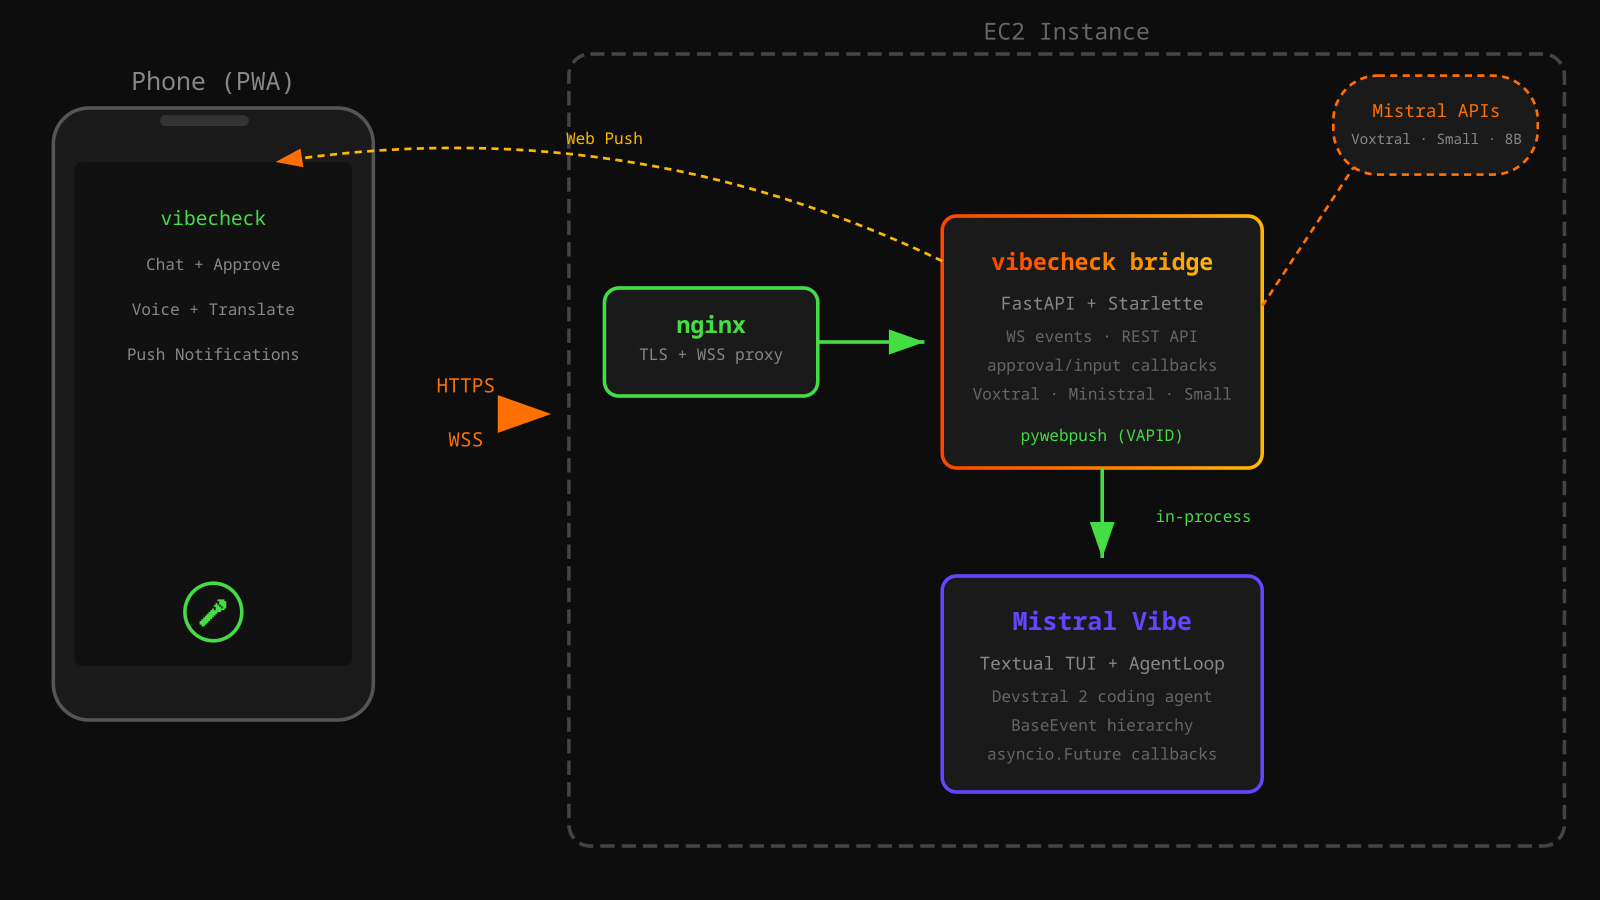
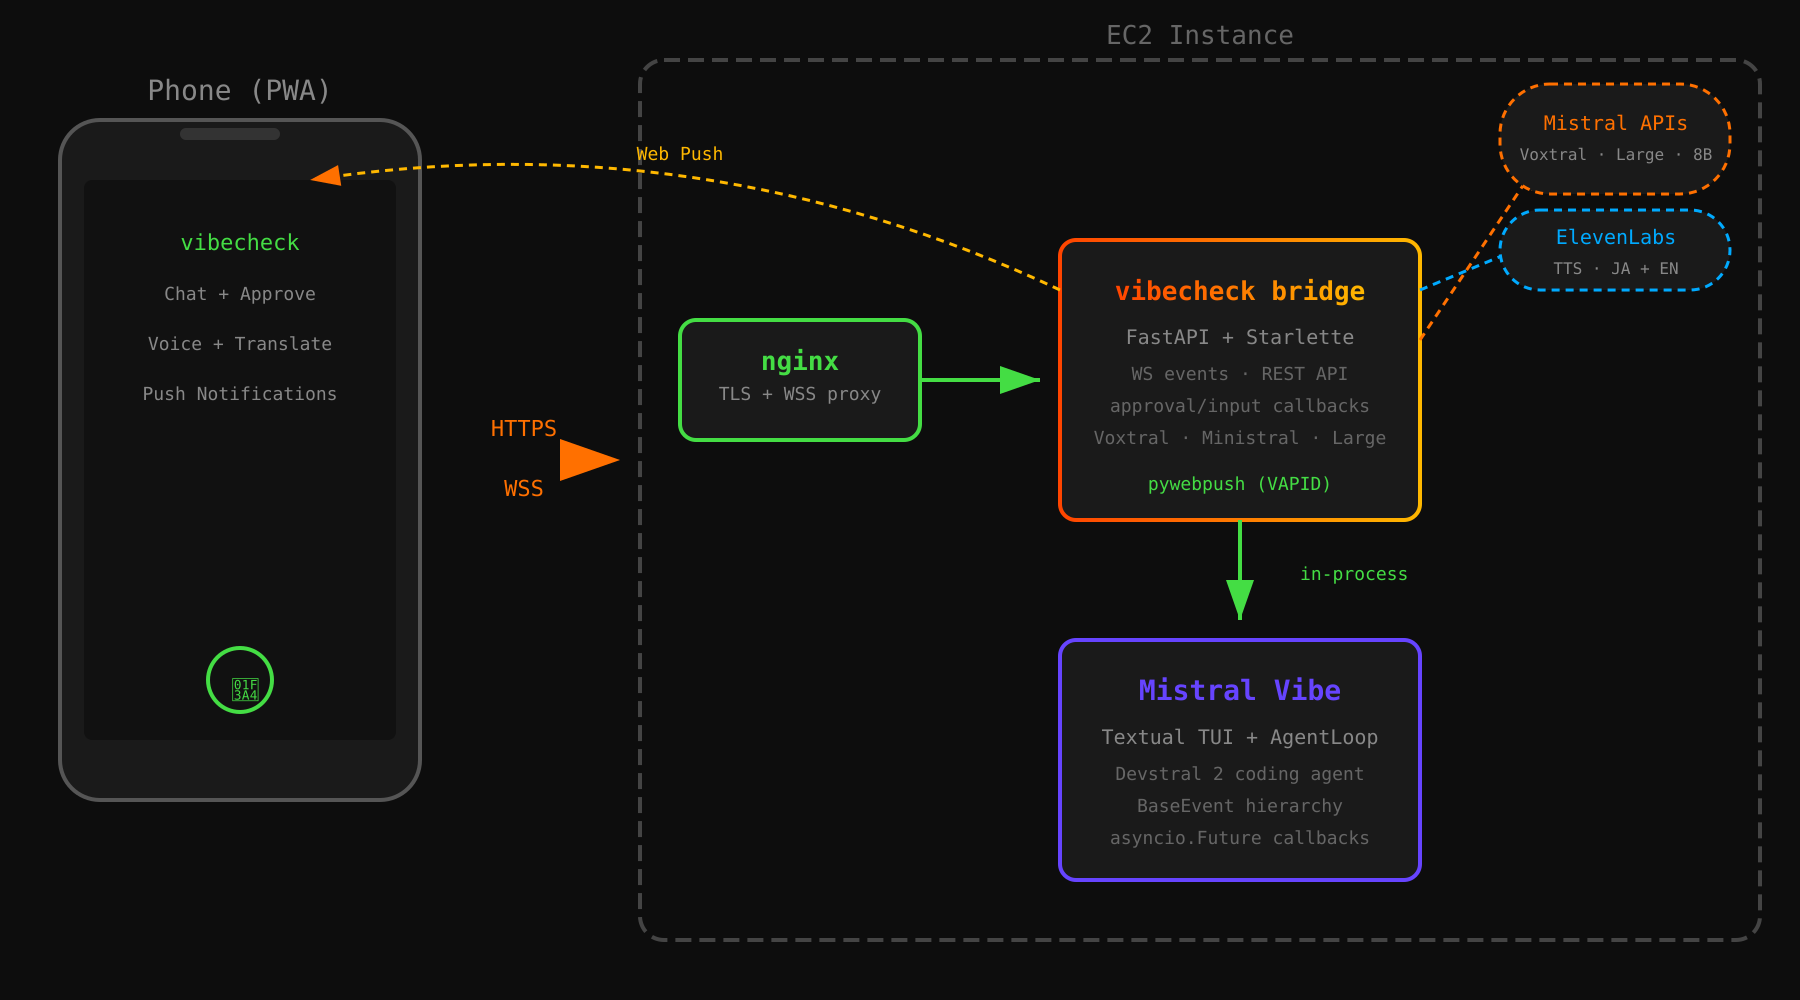
docs: add ElevenLabs TTS to model lineup across all demo materials
- Models: Devstral 2, Voxtral (STT), Ministral 8B, Mistral Large 3, ElevenLabs (TTS)
- Removed Mistral Small (Large handles translation + VLM)
- Updated models.svg/png: "4 Mistral Models + ElevenLabs" with full voice loop footer
- Updated architecture.svg/png: ElevenLabs cloud alongside Mistral APIs
- Updated both demo scripts (2-min + 5-min) with voice loop beats
- Updated slides.md and presenterm template
- ElevenLabs integration required for Best Voice Use Case prize eligibility

diff --git a/docs/DEMO.md b/docs/DEMO.md
@@ -72,7 +72,8 @@ you've walked away.
 
 ![](./slides/architecture.png)
 
-**Devstral** codes · **Voxtral** transcribes · **Ministral** notifies · **Mistral Large** translates
+4 Mistral models + ElevenLabs TTS
+**Devstral** codes · **Voxtral** STT · **Ministral** notifies · **Large** translates · **ElevenLabs** TTS
 
 <!-- end_slide -->
 
@@ -324,12 +325,12 @@ Right: Events stream to the phone in real time. Approval prompt appears. Tap App
 
 (Let the real-time streaming breathe for a few seconds. The responsiveness sells itself.)
 
-#### V3. Voice in Japanese [0:50–1:10] — D, C, A
+#### V3. Voice Loop — Voxtral In, ElevenLabs Out [0:50–1:10] — D, C, A
 
 Left: Vibe terminal continues.
-Right: Tap mic on phone. Speak in Japanese: "テストを実行して". Transcription appears. Send. Vibe acts on the left.
+Right: Tap mic on phone. Speak in Japanese: "テストを実行して". Voxtral transcribes → send. Vibe acts on the left. Response comes back → phone speaks it via ElevenLabs TTS.
 
-> *"Push-to-talk. Voxtral transcribes Japanese in real time. Talk to your agent in any language."*
+> *"Full voice loop. Voxtral transcribes your voice in — ElevenLabs speaks the response back. Any language."*
 
 #### V4. Push Notifications — Lock Screen Approval [1:10–1:30] — U, D
 
@@ -343,11 +344,11 @@ Right: Close the PWA (swipe away). Vibe hits an approval. Phone buzzes. Notifica
 Left: Return to ASCII logo + key points (or keep Vibe running).
 Right: Quick feature flashes on phone — session list with multiple agents, tap translate on a message (Japanese appears), intensity slider from Chill to Ralph.
 
-> *"Multi-session. Japanese translation. Four Mistral models — Devstral, Voxtral, Ministral, Mistral Large — each in its natural role. vibecheck. Check your vibes from anywhere."*
+> *"Multi-session. Japanese translation. Four Mistral models plus ElevenLabs TTS — Devstral codes, Voxtral transcribes, Ministral notifies, Mistral Large translates, and ElevenLabs speaks it all back to you in Japanese or English. vibecheck. Check your vibes from anywhere."*
 
 **[END — ~1:50]** (10 seconds buffer)
 
-**Criteria coverage:** U hit in V1, V4. D hit in V2, V3, V4. A hit in V1, V2, V3, V5. C hit in V1, V3, V5. T hit in V2, V5. All five covered, heaviest on the three the organizer emphasizes (U, D, C).
+**Criteria coverage:** U hit in V1, V4. D hit in V2, V3, V4. A hit in V1, V2, V3, V5 (Mistral models + ElevenLabs for voice prize). C hit in V1, V3, V5. T hit in V2, V5. All five covered, heaviest on the three the organizer emphasizes (U, D, C).
 
 **Recording notes:**
 - One take, one screen capture — no editing/cuts needed (though you can re-record)
@@ -388,7 +389,7 @@ Slide: ASCII art vibecheck logo fills the terminal. Clean, bold, sets the tone.
 Slide: Architecture diagram (Phone → HTTPS → EC2 → vibecheck bridge → Vibe AgentLoop).
 Below or next slide: Model list — one line each.
 
-> *"We hook directly into Vibe's AgentLoop — typed events, clean callbacks, in-process. Four Mistral models: Devstral codes, Voxtral transcribes voice, Ministral handles notifications, Mistral Large does translation. Each in its natural role."*
+> *"We hook directly into Vibe's AgentLoop — typed events, clean callbacks, in-process. Four Mistral models plus ElevenLabs: Devstral codes, Voxtral transcribes your voice, Ministral writes smart notifications, Mistral Large translates — and ElevenLabs speaks it all back to you. Full voice loop."*
 
 (Keep this tight — 20 seconds. The demo will show all of this working.)
 
@@ -415,16 +416,17 @@ This is the heart of the presentation. **2 minutes 40 seconds of live product.**
 
 (Let Vibe run for a beat so the audience sees multiple events streaming. The real-time feel is the demo moment — don't rush past it. If a second approval comes up naturally, approve it too.)
 
-##### B6. Voice Input in Japanese [2:00–2:40] — D, C, A
+##### B6. Voice Loop — Voxtral STT + ElevenLabs TTS [2:00–2:40] — D, C, A
 
 1. Tap mic on phone.
 2. **Speak in Japanese:** "テストを実行して" (run the tests).
 3. Voxtral transcribes → text appears → send.
 4. Vibe receives the instruction and acts.
+5. Agent response comes back → **phone reads it aloud via ElevenLabs TTS** (Japanese).
 
-> *"Push-to-talk. Voxtral transcribes in real time — Japanese, English, whatever you speak."*
+> *"Full voice loop. Voxtral transcribes your voice in — ElevenLabs speaks the response back out. Japanese, English, whatever you need."*
 
-(If this lands well and time allows, do a second voice command.)
+(The voice loop is the ElevenLabs prize moment. Make sure audio is audible to the room.)
 
 ##### B7. Push Notifications [2:40–3:15] — U, D
 

diff --git a/demo/slides.md b/demo/slides.md
@@ -72,7 +72,7 @@ Architecture
 
 <!-- end_slide -->
 
-5 Mistral Models
+4 Mistral Models + ElevenLabs
 ===
 
 <!-- jump_to_middle -->
@@ -88,7 +88,7 @@ What It Does
 <!-- incremental_lists: true -->
 
 - **Approve tool calls** from your phone (or lock screen)
-- **Voice input** — speak Japanese, Voxtral transcribes
+- **Voice loop** — Voxtral STT in, ElevenLabs TTS out (JA + EN)
 - **Push notifications** — phone buzzes when agent needs you
 - **Translation** — EN↔JA toggle on any message
 - **Smart alerts** — Ministral writes notification copy + urgency
